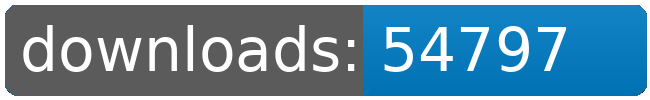
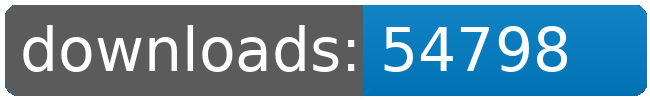
dl log written

Changed region(s): [[0.8, 0.24, 0.8923, 0.72]]

diff --git a/README.md b/README.md
@@ -76,8 +76,8 @@
 		<td>7157</td>
 		<td>7177</td>
 		<td>7194</td>
-		<td>7205</td>
-		<td>+ 11</td>
+		<td>7206</td>
+		<td>+ 12</td>
 	</tr>
 	<tr>
 		<td>Sheragi.Rebirth.Redux</td>
@@ -120,8 +120,8 @@
 		<td></td>
 		<td></td>
 		<td></td>
-		<td>54797</td>
-		<td>87</td>
+		<td>54798</td>
+		<td>88</td>
 	</tr>
 </table>
 </sub></sup>
@@ -168,8 +168,8 @@
 		<td>7157</td>
 		<td>7177</td>
 		<td>7194</td>
-		<td>7205</td>
-		<td>+ 11</td>
+		<td>7206</td>
+		<td>+ 12</td>
 	</tr>
 	<tr>
 		<td>Korunak.Defense.Drones</td>
@@ -245,8 +245,8 @@
 		<td></td>
 		<td></td>
 		<td></td>
-		<td>54797</td>
-		<td>87</td>
+		<td>54798</td>
+		<td>88</td>
 	</tr>
 </table>
 </sub></sup>
